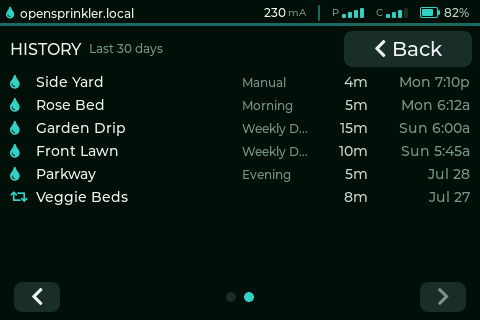
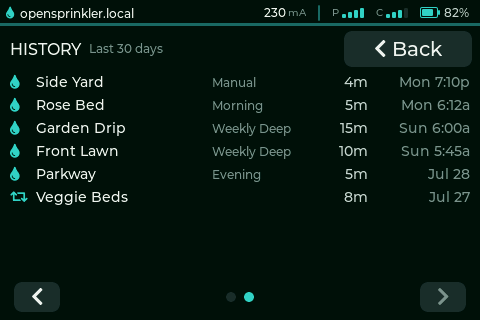
#127 History: widen program tag column 66 -> 96px so program names fit
Common program names like "Weekly Deep" were ellipsizing at the 66px tag width.
Widen the tag column to 96px (the name column absorbs the difference and still
ellipsizes long station names); the tag still clears the duration zone by ~8px.

Re-rendered history states. cyd-35r flash unchanged (1474453, +4444/+0.23% vs
base). include/lv_conf.h byte-identical; nothing vendored.

Copilot-Session: e9242aba-b524-48da-8bd5-a10cf8c2ef23

diff --git a/lib/ui/ui_layout.h b/lib/ui/ui_layout.h
@@ -57,7 +57,7 @@ static constexpr int HIST_RP     = 10;  // right inset from row edge
 static constexpr int HIST_WHEN_W = 96;  // timestamp column width
 static constexpr int HIST_DUR_W  = 52;  // duration column width
 static constexpr int HIST_COL_G  = 6;   // gap between duration + timestamp
-static constexpr int HIST_TAG_W  = 66;  // "Manual" tag column width
+static constexpr int HIST_TAG_W  = 96;  // program/context tag column width
 static constexpr int HIST_TAG_G  = 6;   // gap between name and tag
 static constexpr int HIST_NAME_W =
     SCREEN_W - HIST_NAME_X -
